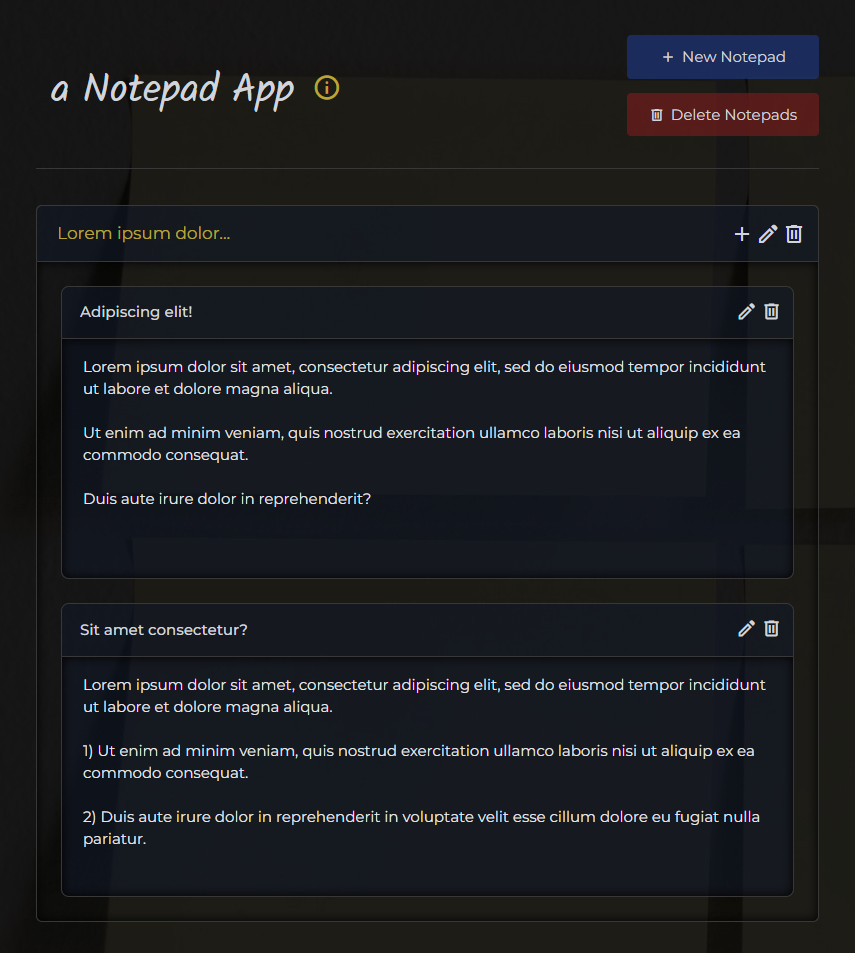
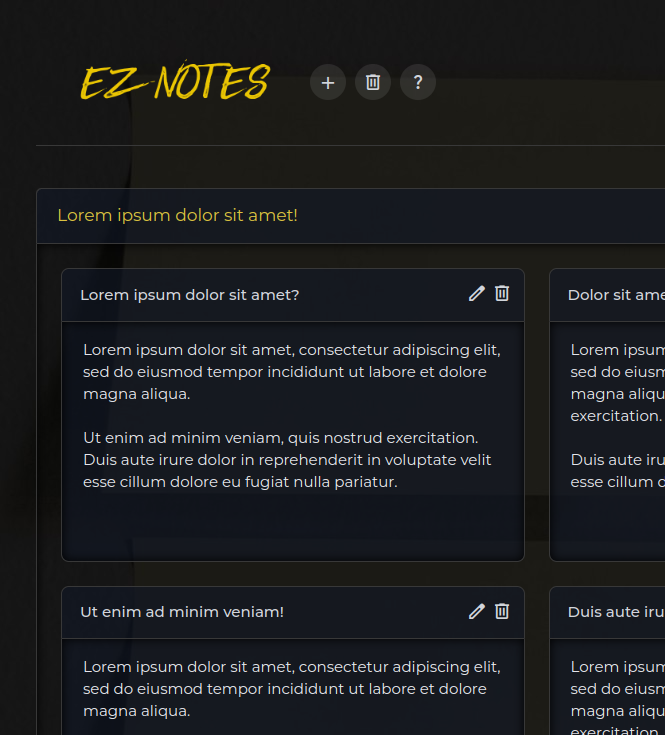
styling changes

diff --git a/src/components/main/Notepads.tsx b/src/components/main/Notepads.tsx
@@ -10,53 +10,53 @@ export const Notepads: React.FC = () => {
   const { notepadData, setModalContent } = useContext(Context);
 
   const buttonStyle =
-    "flex justify-center items-center rounded w-[192px] pt-[11px] pb-[10px] px-[18px]";
-  const iconStyle = "mr-1.5 text-[16px]";
-  const padLeft = "pl-[22px]";
+    "bg-white bg-opacity-[.09] hover:bg-opacity-[.11] rounded-[50%] w-[36px] h-[36px] flex justify-center items-center";
+  const iconStyle = "text-[21px]";
 
   return (
     <main className="text-[15px] text-gray-300">
-      <header className="md:flex md:flex-row md:justify-between mx-[13px] md:mx-[36px] pt-[47px] md:pt-[35px] pb-[30px] md:pb-[32px] lg:pr-[34px] border-b border-dark-border">
-        <div className="flex">
-          <h1
-            className={`font-solitreo text-[40px] font-medium mr-[18px] relative top-[10px] md:top-[30px] ${padLeft} md:pl-[15px] lg:pl-[37px]`}
+      <header className="sm:flex sm:gap-x-[37px] mx-[13px] md:mx-[36px] border-b border-dark-border pt-[57px] pb-[41px] sm:pb-[36px] pl-0 sm:pl-[42px]">
+        <h1 className="mb-[23px] sm:mb-0">
+          <a
+            href="https://notepad-44bd1.web.app/"
+            className="block sm:inline-block w-[195px] mx-auto sm:mx-0"
           >
-            a Notepad App
-          </h1>
-          <Button
-            icon="info"
-            title="open info screen"
-            buttonClasses="relative top-[5px] md:top-[5px] text-yellow-highlight"
-            iconClasses="text-[29px]"
-            onClick={setModalContent.bind(null, <Info />)}
-          />
-        </div>
+            <img
+              src="/logo.png"
+              alt="EZ Notes logo"
+              className="opacity-[.91] hover:opacity-[1]"
+            />
+          </a>
+        </h1>
 
-        <div
-          className={`mt-[25px] md:mt-0 border-t border-dark-border md:border-none pt-[27px] md:pt-0 ${padLeft} md:pl-0`}
-        >
+        <div className="flex justify-center sm:justify-normal gap-x-[9px] sm:relative sm:top-[7px]">
           <Button
-            theme="blue"
             icon="add"
-            text="New Notepad"
-            buttonClasses={`mb-[14px] ${buttonStyle}`}
+            title="Add New Notepad"
+            buttonClasses={buttonStyle}
             iconClasses={iconStyle}
             onClick={setModalContent.bind(null, <AddNotepad />)}
           />
           <Button
-            theme="red"
             icon="delete"
-            text="Delete Notepads"
+            title="Delete All Notepads"
             buttonClasses={buttonStyle}
             iconClasses={iconStyle}
             onClick={setModalContent.bind(null, <DeleteAll />)}
+          />
+          <Button
+            icon="question_mark"
+            title="info"
+            buttonClasses={buttonStyle}
+            iconClasses={`${iconStyle} text-[18px]`}
+            onClick={setModalContent.bind(null, <Info />)}
           />
         </div>
       </header>
 
       <TransitionGroup
         component="div"
-        className="mt-[36px] px-[13px] md:px-[36px]"
+        className="mt-[42px] px-[13px] md:px-[36px]"
       >
         {notepadData.map((notepad: NotepadType) => (
           <CSSTransition key={notepad.id} classNames="fade" timeout={300}>

diff --git a/src/components/forms/wrappers/FormWrapper.tsx b/src/components/forms/wrappers/FormWrapper.tsx
@@ -8,7 +8,7 @@ type FormWrapperProps = {
 };
 
 export const formBigFont =
-  "font-normal font-solitreo text-[29px] text-gray-300";
+  "font-jost font-semibold text-[30px] text-gray-300 text-center";
 
 export const FormWrapper: React.FC<FormWrapperProps> = (props) => {
   const { modalClose } = useContext(Context);
@@ -23,11 +23,9 @@ export const FormWrapper: React.FC<FormWrapperProps> = (props) => {
           iconClasses="text-2xl"
         />
       </div>
-      <div className="text-[16px] px-[26px] sm:px-[38px] md:px-[47px] mt-[29px] mb-[61px]">
+      <div className="text-[16px] px-[2px] sm:px-[71px] mt-[48px] mb-[106px]">
         {props.title && (
-          <h3 className={`${formBigFont} mb-[6px] ml-[-7px]`}>
-            - {props.title} -
-          </h3>
+          <h3 className={`${formBigFont} mb-[12px]`}>{props.title}</h3>
         )}
         {props.children}
       </div>

diff --git a/src/components/forms/Info.tsx b/src/components/forms/Info.tsx
@@ -8,13 +8,12 @@ export const Info: React.FC = () => {
   const pushUp = "relative bottom-[6px]";
 
   return (
-    <FormWrapper title="App Info:">
-      <div className="text-[16px] text-gray-100">
-        <p className="mt-[14px]">Click the "+ New Notepad" button.</p>
-        <div className="mt-[23px] mb-[31px]">
+    <FormWrapper title="Info">
+      <div className="text-[16px] text-gray-100 text-center">
+        <div className="mt-[21px] mb-[28px] leading-[36px]">
           <p>
             <Icon icon="add" iconClasses={iconClasses} />
-            <span className={pushUp}> = Add Note</span>
+            <span className={pushUp}> = Add Note/Notepad</span>
           </p>
           <p>
             <Icon icon="edit" iconClasses={iconClasses} />

diff --git a/src/components/forms/elements/FormButton.tsx b/src/components/forms/elements/FormButton.tsx
@@ -9,7 +9,7 @@ type FormButtonProps = {
 };
 
 export const formButtonStyle =
-  "text-gray-100 py-[12px] flex items-center rounded drop-shadow-md cursor-pointer";
+  "text-gray-100 py-[12px] px-[26px] flex items-center rounded-[3rem] drop-shadow-md cursor-pointer";
 
 export const FormButton: React.FC<FormButtonProps> = (props) => {
   return (
@@ -17,7 +17,7 @@ export const FormButton: React.FC<FormButtonProps> = (props) => {
       icon={props.icon}
       text={props.text}
       theme={props.theme}
-      buttonClasses={`${formButtonStyle} px-[18px] mr-3`}
+      buttonClasses={formButtonStyle}
       iconClasses={`text-[20px] mr-1 ${props.iconClasses}`}
       type="submit"
     />

diff --git a/src/components/forms/AddNote.tsx b/src/components/forms/AddNote.tsx
@@ -25,7 +25,7 @@ export const AddNote: React.FC<AddNoteProps> = (props) => {
   } = useFormHelper("ADD_NOTE", { notepadID: props.id });
 
   return (
-    <FormWrapper title="Create Note">
+    <FormWrapper title="New Note">
       <form onSubmit={submitHandler}>
         <InputWrapper>
           <Fragment>
@@ -55,7 +55,7 @@ export const AddNote: React.FC<AddNoteProps> = (props) => {
         {formError && <Error>{formError}</Error>}
 
         <ButtonGroupWrapper>
-          <FormButton text="Create" icon="add" />
+          <FormButton text="Create" />
           <FormButtonCancel />
         </ButtonGroupWrapper>
       </form>

diff --git a/src/components/forms/AddNotepad.tsx b/src/components/forms/AddNotepad.tsx
@@ -8,7 +8,7 @@ export const AddNotepad: React.FC = () => {
     useFormHelper("ADD_NOTEPAD");
 
   return (
-    <FormWrapper title="Create Notepad">
+    <FormWrapper title="New Notepad">
       <form onSubmit={submitHandler}>
         <InputWrapper>
           <Fragment>
@@ -25,7 +25,7 @@ export const AddNotepad: React.FC = () => {
         {formError && <Error>{formError}</Error>}
 
         <ButtonGroupWrapper>
-          <FormButton text="Create" icon="add" />
+          <FormButton text="Create" />
           <FormButtonCancel />
         </ButtonGroupWrapper>
       </form>

diff --git a/src/components/forms/DeleteAll.tsx b/src/components/forms/DeleteAll.tsx
@@ -9,10 +9,10 @@ export const DeleteAll: React.FC = () => {
   return (
     <FormWrapper>
       <form onSubmit={submitHandler}>
-        <p className={`${formBigFont} mt-[31px] mb-[-9px]`}>Delete all data?</p>
+        <p className={formBigFont}>Delete All?</p>
 
         <ButtonGroupWrapper>
-          <FormButton text="Delete All" theme="red" />
+          <FormButton text="Delete" theme="red" />
           <FormButtonCancel />
         </ButtonGroupWrapper>
       </form>

diff --git a/tailwind.config.js b/tailwind.config.js
@@ -4,12 +4,12 @@ module.exports = {
   theme: {
     extend: {
       fontFamily: {
-        solitreo: ["Solitreo", "cursive"],
         sans: ["Montserrat", "sans-serif"],
+        jost: ["Jost", "sans-serif"],
       },
       colors: {
         "dark-border": "#383838",
-        "yellow-highlight": "rgba(253, 224, 71, .7)",
+        "yellow-highlight": "rgba(253, 224, 71, .85)",
       },
     },
   },

diff --git a/src/index.css b/src/index.css
@@ -1,4 +1,4 @@
-@import url("https://fonts.googleapis.com/css2?family=Montserrat:wght@400;500&family=Solitreo&display=swap");
+@import url("https://fonts.googleapis.com/css2?family=Jost:wght@500;600;700&family=Montserrat:wght@300;400;500;600;700&display=swap");
 @import url("https://fonts.googleapis.com/css2?family=Material+Symbols+Outlined");
 
 @tailwind base;

diff --git a/src/components/forms/elements/TextArea.tsx b/src/components/forms/elements/TextArea.tsx
@@ -16,7 +16,7 @@ export const TextArea: React.FC<TextAreaProps> = (props) => {
       id={props.id}
       rows={props.rows}
       placeholder={props.placeholder}
-      className={`${inputStyle} mt-[17px]`}
+      className={`${inputStyle} mt-[20px]`}
       maxLength={100000}
       onChange={props.onChange}
       value={props.value}

diff --git a/src/components/forms/wrappers/ButtonGroupWrapper.tsx b/src/components/forms/wrappers/ButtonGroupWrapper.tsx
@@ -7,5 +7,9 @@ type ButtonGroupWrapperProps = {
 export const ButtonGroupWrapper: React.FC<ButtonGroupWrapperProps> = (
   props
 ) => {
-  return <div className="mt-[21px] flex">{props.children}</div>;
+  return (
+    <div className="mt-[23px] flex justify-center gap-x-2.5 font-medium">
+      {props.children}
+    </div>
+  );
 };

diff --git a/src/components/forms/elements/FormButtonCancel.tsx b/src/components/forms/elements/FormButtonCancel.tsx
@@ -15,7 +15,7 @@ export const FormButtonCancel: React.FC<FormButtonCancelProps> = (props) => {
       text={props.text}
       theme="cancel"
       onClick={modalClose}
-      buttonClasses={`${formButtonStyle} px-[22px]`}
+      buttonClasses={formButtonStyle}
     />
   );
 };
